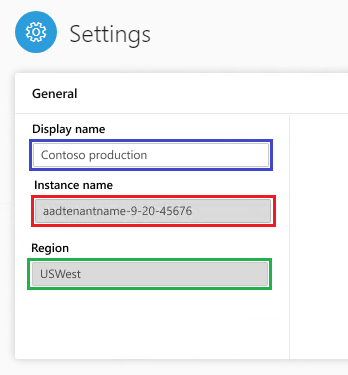
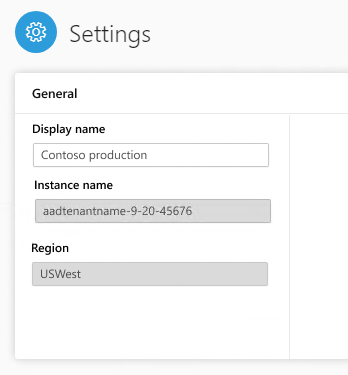
edits

Changed region(s): [[0.0575, 0.6747, 0.8046, 0.792], [0.0862, 0.4987, 0.8046, 0.616], [0.0862, 0.352, 0.8046, 0.4693]]

diff --git a/ai-docs/customer-insights/pm-permissions.md b/ai-docs/customer-insights/pm-permissions.md
@@ -31,45 +31,44 @@ The main administration page is the **Permissions** page where you can set up ro
 |Administrator     | <ul><li>All that is available to the Contributor</li></ul>AND<ul><li>Change settings in the **Settings** page</li><li>View and add permissions in the **Permissions** page   </li></ul>     |
  
 ### Adding Roles and Permissions
-This is done via the **Add Permissions** panel that can be accessed via  **Add** at the top of the permissions page:
-
-Replace with permissions final1:
- ![add-permissions.png](media/add-permissions.png)
- 
-Once the panel is opened, first you will need to find the person to which you want to give the permission. Type a name in the **Name field** as shown below.
+On the **Permissions** page, select **Add** to add permissions and roles to users.
 
 > [!div class="mx-imgBorder"] 
-> ![](media/permissions-roles.png "Add permissions")
+> ![](media/add-permissions.png "Add permissions")
+ 
+First, find the person to whom you want to give permission. Type a name in the **Select** field.
 
-Then, choose a role for that person as shown below:
+> [!div class="mx-imgBorder"] 
+> ![](media/permissions-roles.png "Enter a name")
+
+Then, choose a role for that person.
 
 [missing permissions image]
 
-Lastly, hit **Save** in the bottom right corner of the panel. Upon saving a permission, an instance will be automatically created for the user for whom you have defined the permission. This user will be able to enter the Customer 360 app and perfom actions according to the roles table that was specified above.
+Lastly, select **Save** in the bottom right corner of the panel. An instance will be automatically created for the user for whom you have defined the permission. This user will be able to enter the Customer 360 app and perform actions according to the roles that were specified above.
  
 ### Viewing current permissions
-After hitting save you can view all the permissions that were given in this page:
+After selecting **Save**, you can view all the permissions that were given in this page:
 
 > [!div class="mx-imgBorder"] 
 > ![](media/permissions.png "Permissions")
 
 Let's explore this screen:
 
-- The **Type** column specifies whether it's a single member, a group, or an application (at this point Customer 360 supports only individual users)
+- The **Type** column specifies whether it's a single member, a group, or an application. At this point, Customer 360 supports only individual users.
 - Roles are specified under the **Roles** column
-- You can also look for a specific person, group or application by typing it's name in the search field:
-[?]
-
-- Lastly, you can sort the results by each of the columns by clicking on the arrow icon next to the column name:  
+- You can also look for a specific person, group, or application by typing a name in the search field. [?]
+- Lastly, you can sort the results by each of the columns by selecting the arrow next to the column name.  
 [permissions4]
 
 ### Filtering Permissions by a Role
-This can be achieved by opening the **Filter** panel through **Filter** at the top of the permissions page, and choosing whether to filter the permissions by the ***Administrator***, ***Contributor*** or ***Reader*** roles.
+At the top of the **Permissions** page, select **Filter**  to open the **Filter** panel. Then, choose whether to filter the permissions by the ***Administrator***, ***Contributor***, or ***Reader*** roles.
 
-![permissions-filter.png](media/permissions-filter.png)
+> [!div class="mx-imgBorder"] 
+> ![](media/permissions-filter.png "Permissions filter")
 
 ### Viewing current number of users per role
-This can be done via the **Roles** panel that can be accessed via **Roles** at the top of the permissions page:
+At the top of the **Permissions** page, select **Roles** to open the **Roles** panel to view the number of users per role.
 
 > [!div class="mx-imgBorder"] 
 > ![](media/permissions-roles2.png "Roles")

diff --git a/ai-docs/customer-insights/pm-settings.md b/ai-docs/customer-insights/pm-settings.md
@@ -22,16 +22,13 @@ robots: noindex,nofollow
 
 [!INCLUDE [cc-beta-prerelease-disclaimer](../includes/cc-beta-prerelease-disclaimer.md)]
 
-## Settings
-Note: The **Settings** page is accessable only to **Administrators**. If you have one of the other permissions (**Reader** or **Writer**), you may want to review the **Permissions** section and explore all the functionalities that are available to you in Customer 360.
+Note: The **Settings** page is accessible only to **Administrators**. If you have one of the other permissions (**Reader** or **Writer**), you may want to review the **Permissions** section and explore all the functionalities that are available to you in Customer 360.
 
-Within this screen several options are available as shown below:
+Within this screen, several options are available as shown below:
 
 > [!div class="mx-imgBorder"] 
 > ![](media/settings.png "Settings")
 
-- **Display Name**: Determines how your user name will be shown (shown in blue above)
-- **Instance Name**: Here you can give your work instances identifiable names. It's an highly recommended practice if you have more than one instance (shown in red above)
-- **Region**: Determines your organization's region (shown in green above)
-
-
+- **Display Name**: Determines how your user name will be shown
+- **Instance Name**: Here you can give your work instances identifiable names. Highly recommended if you have more than one instance 
+- **Region**: Determines your organization's region 
